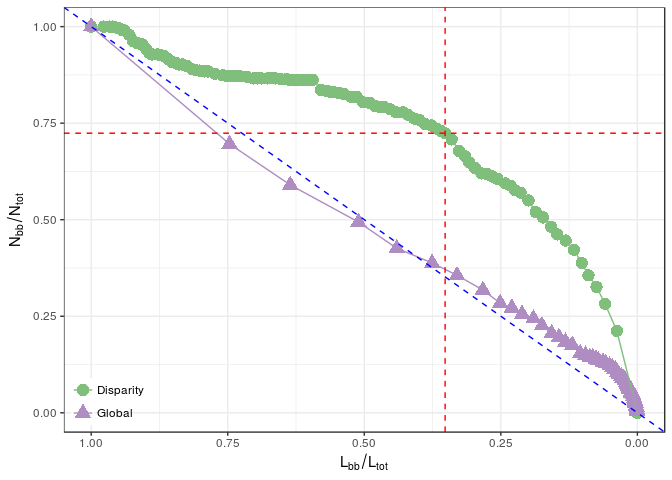
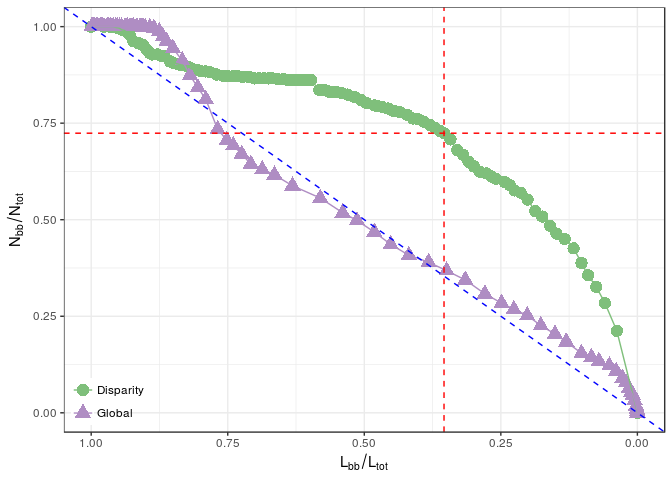
Updated README files

diff --git a/README.md b/README.md
@@ -80,7 +80,7 @@ edge.pvals <- get_edge_disparity_pvals(net = air)
 We can now analyse the topology of the networks resulting from the application of different disparity filters:
 
 ``` r
-analysis <- analyse_disparity_filter(net = air, disparity.pval = edge.pvals, step = 0.01)
+analysis <- analyse_disparity_filter(net = air, disparity.pval = edge.pvals, breaks = 100)
 ```
 
 Finally, based on the previous data frame, we can carry out a visual analysis of the resulting network topologies:
